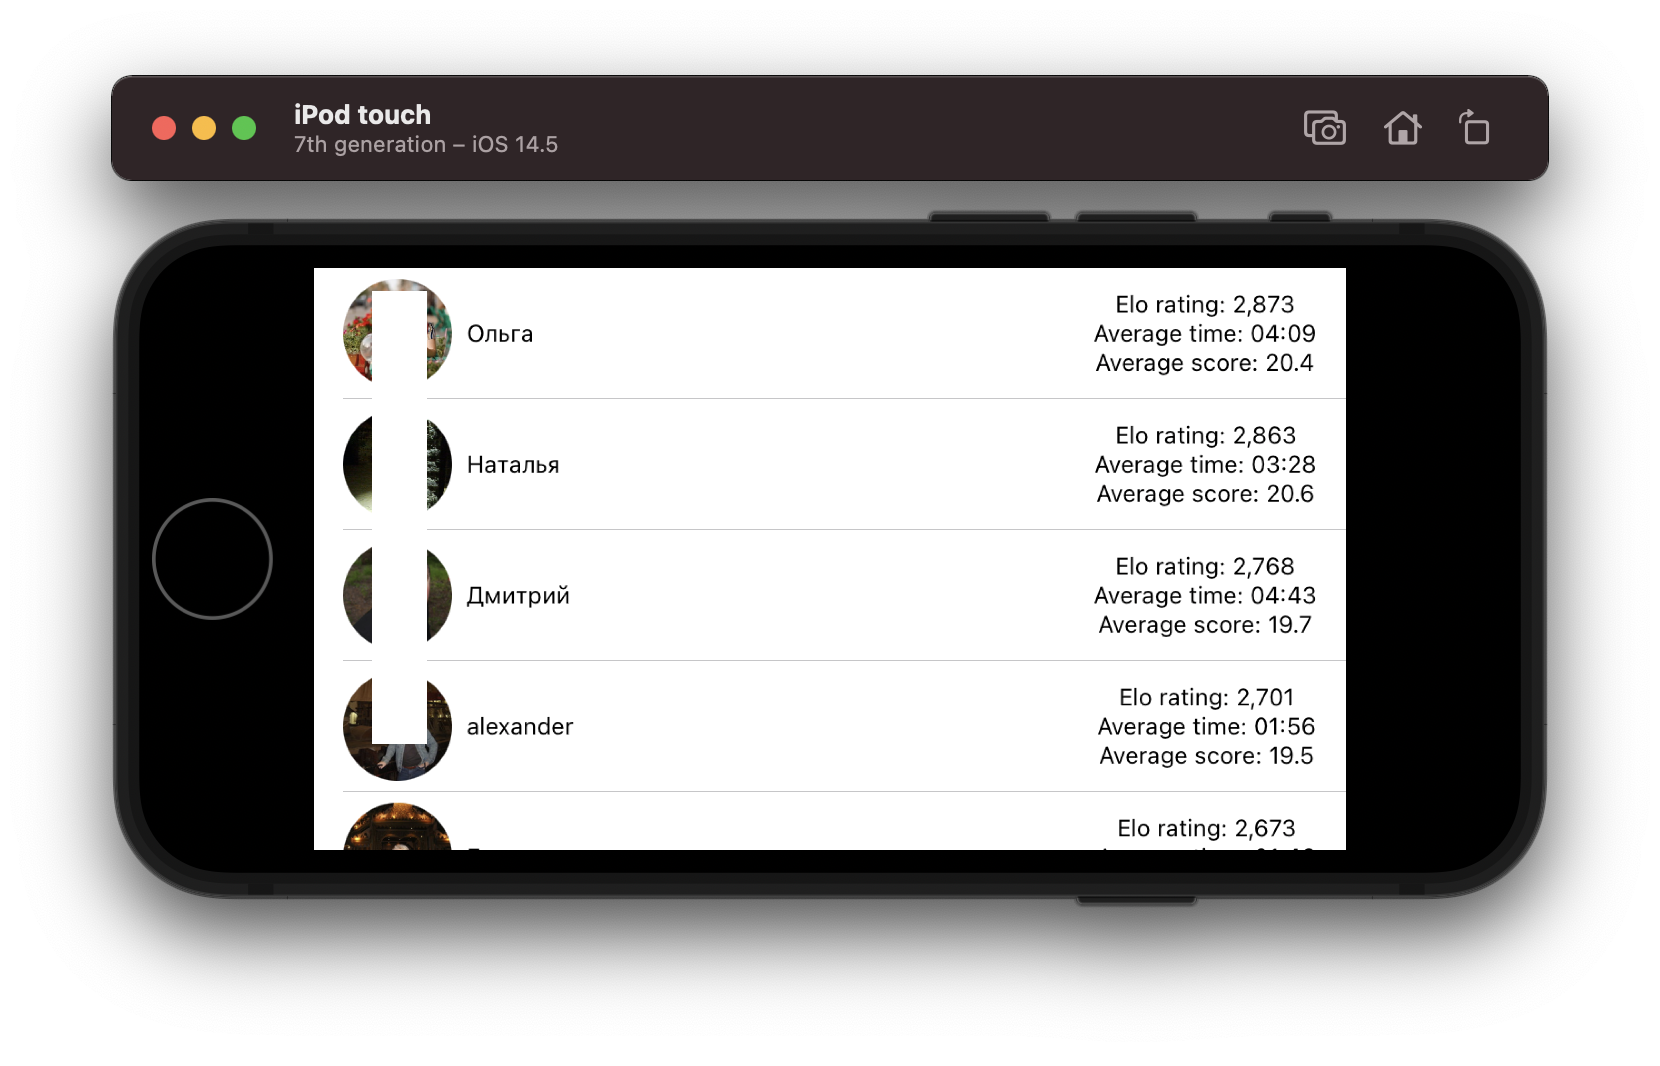
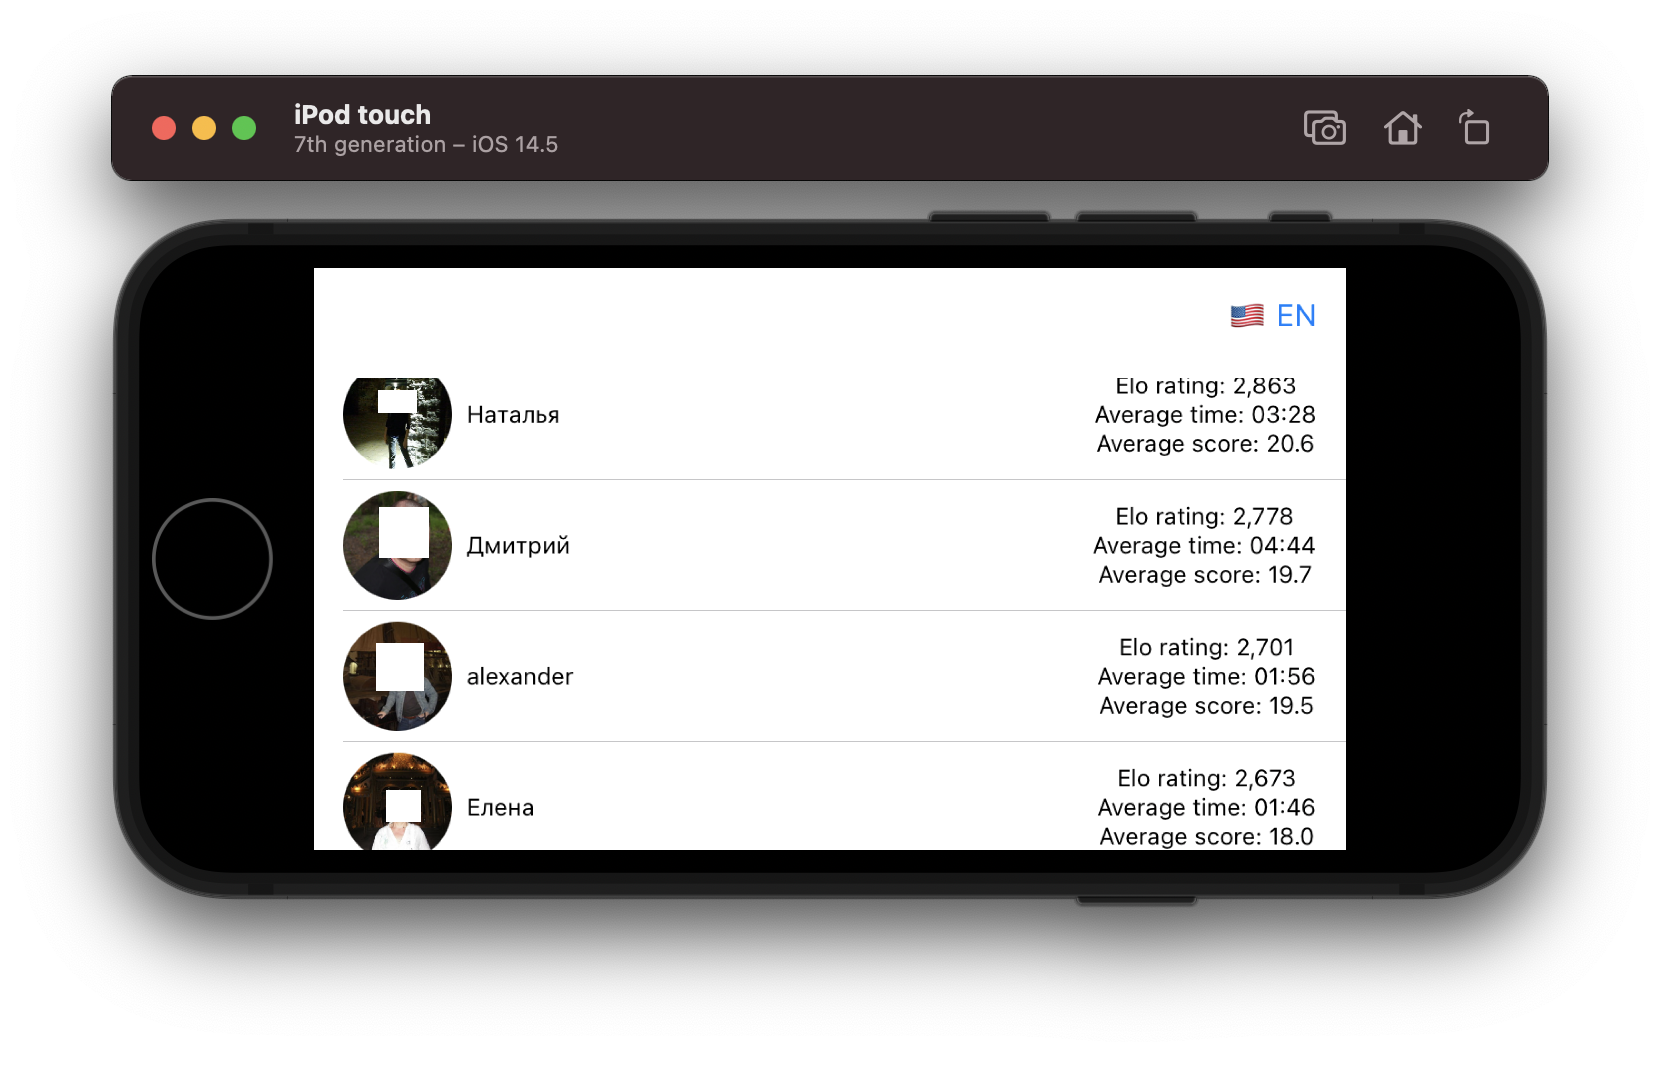
Add a menu with 3 items

Changed region(s): [[0.6452, 0.2786, 0.7988, 0.8049], [0.1843, 0.2477, 0.338, 0.8049]]

diff --git a/Tops1/Tops1/Views/ContentView.swift b/Tops1/Tops1/Views/ContentView.swift
@@ -19,9 +19,17 @@ struct ContentView: View {
     let downloadManager = DownloadManager.instance
 
     var body: some View {
-        List {
-            ForEach(topEntities) { top in
-                TopRow(topEntity: top)
+        VStack(alignment: .trailing) {
+            Menu("🇺🇸 EN") {
+                Button("🇺🇸 EN", action: {})
+                Button("🇩🇪 DE", action: {})
+                Button("🇷🇺 RU", action: {})
+            }.padding()
+            
+            List {
+                ForEach(topEntities) { top in
+                    TopRow(topEntity: top)
+                }
             }
         }
     }
